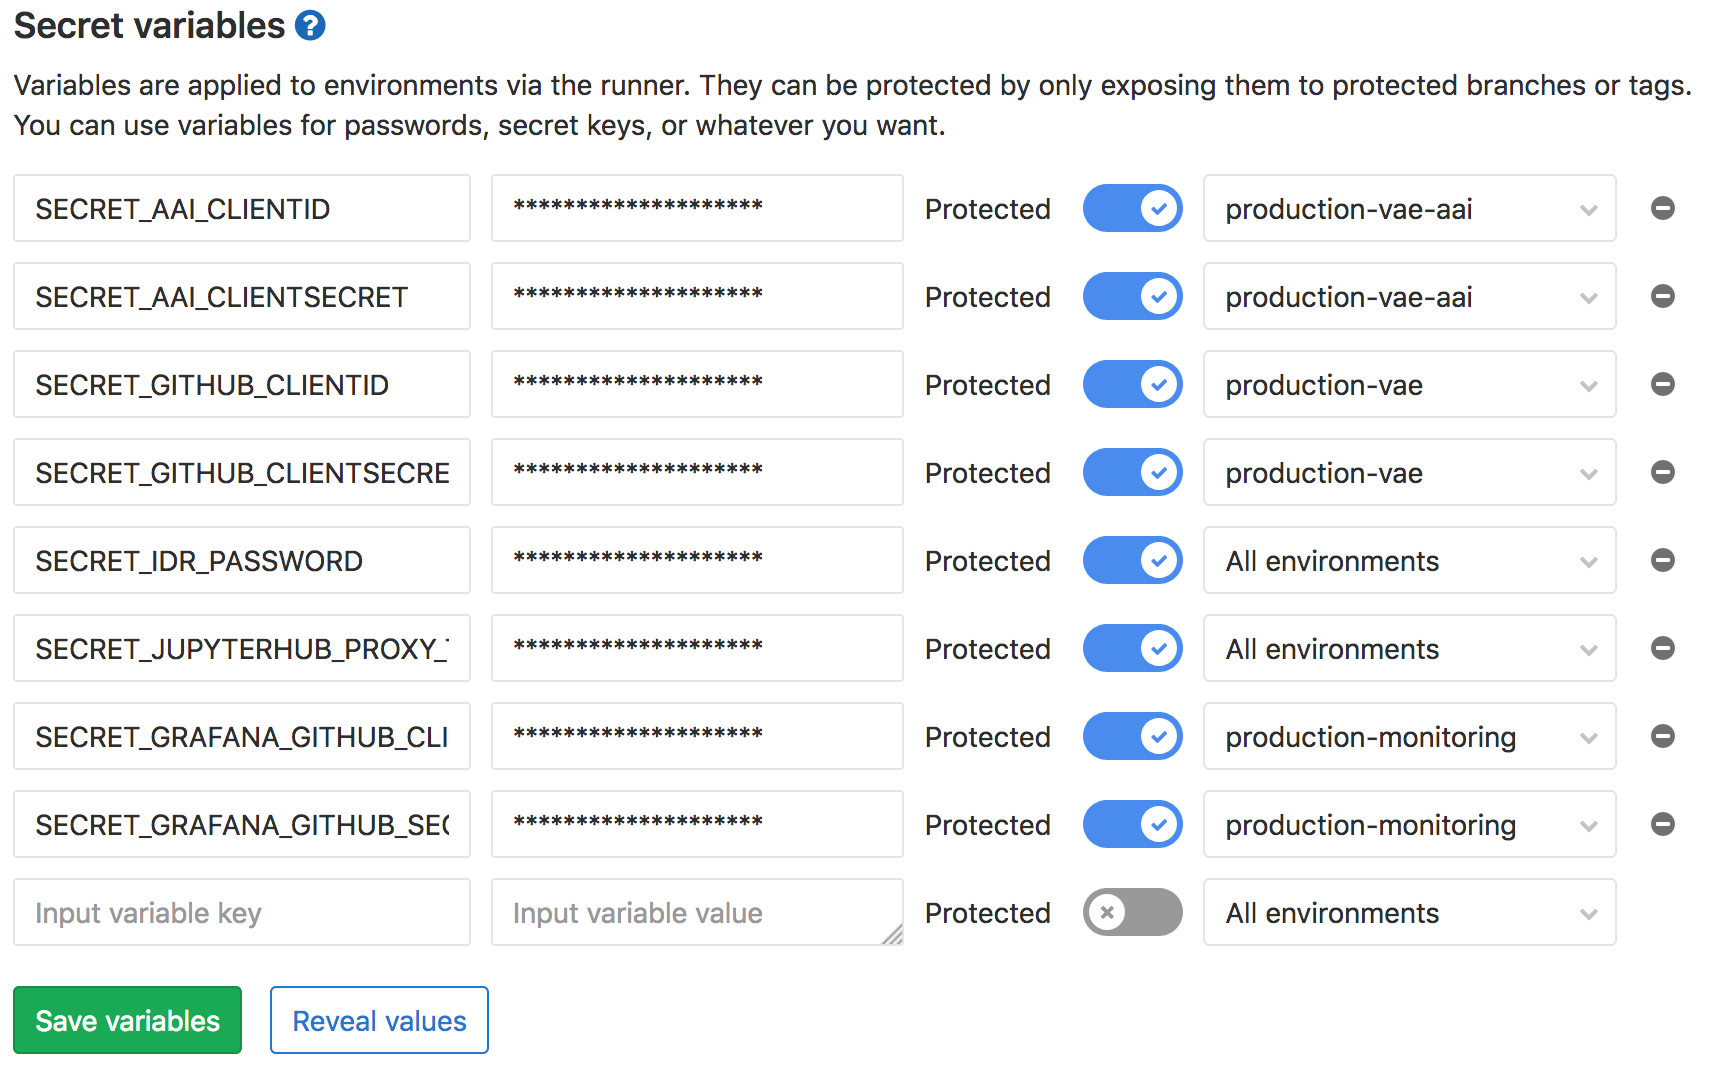
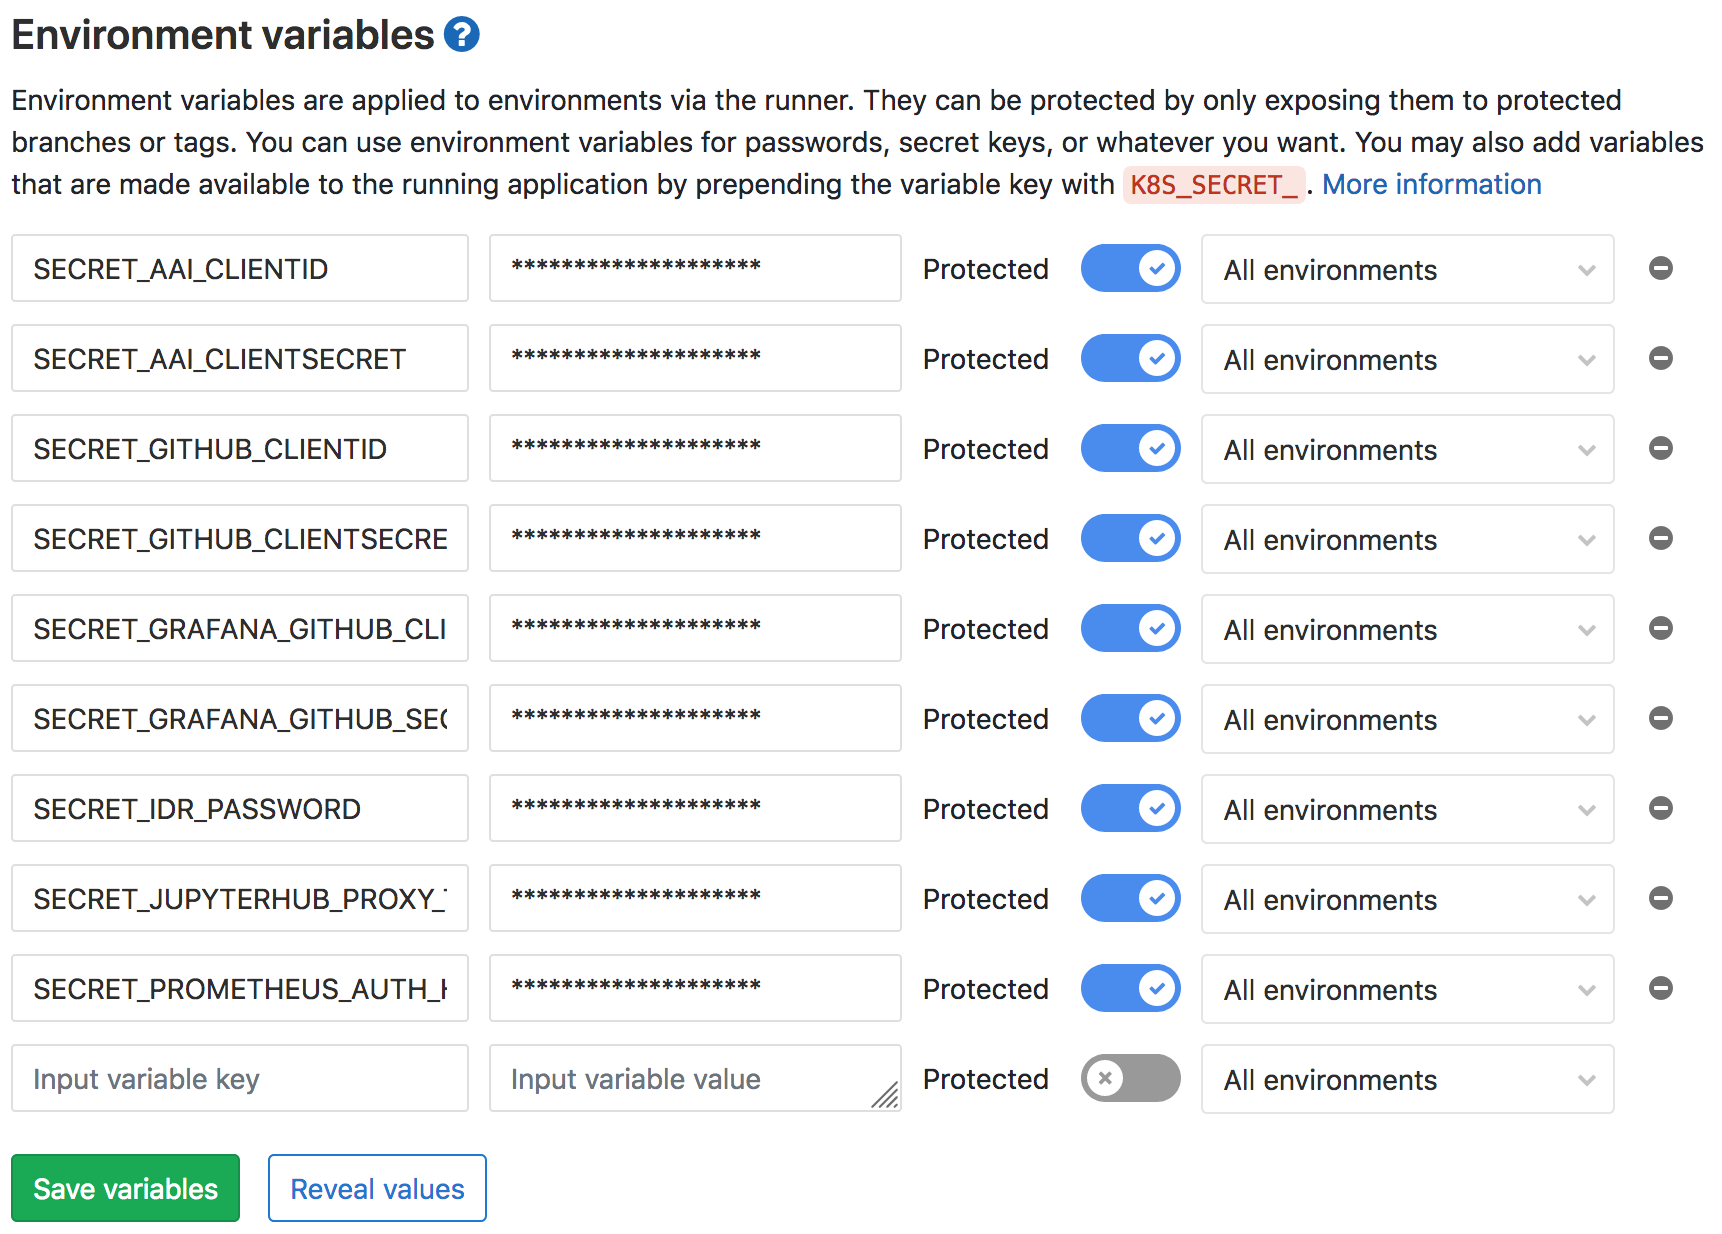
GitLab secret vars visible in All environments

diff --git a/README.md b/README.md
@@ -47,15 +47,17 @@ Ensure it is disabled since this runner has administrative permissions to manage
 
 ## Configure secret variables for the deployment
 
-Setup Secret variables referenced in [`.gitlab-ci.yml`](.gitlab-ci.yml):
+Setup Secret variables referenced in [`.gitlab-ci.yml`](.gitlab-ci.yml).
+These should be visible to `All environments`.
 - `SECRET_JUPYTERHUB_PROXY_TOKEN`
 - `SECRET_IDR_PASSWORD`
-- `SECRET_GITHUB_CLIENTID` (production-vae only)
-- `SECRET_GITHUB_CLIENTSECRET` (production-vae only)
-- `SECRET_AAI_CLIENTID`: (production-vae-aai only)
-- `SECRET_AAI_CLIENTSECRET`: (production-vae-aai only)
-- `SECRET_GRAFANA_GITHUB_CLIENTID`: (production-monitoring only)
-- `SECRET_GRAFANA_GITHUB_SECRET`: (production-monitoring only)
+- `SECRET_GITHUB_CLIENTID`
+- `SECRET_GITHUB_CLIENTSECRET`
+- `SECRET_AAI_CLIENTID`
+- `SECRET_AAI_CLIENTSECRET`
+- `SECRET_GRAFANA_GITHUB_CLIENTID`
+- `SECRET_GRAFANA_GITHUB_SECRET`
+- `SECRET_PROMETHEUS_AUTH_HTPASSWD`
 
 ![GitLab secret variables](docs/gitlab-secret-variables.png)
 
